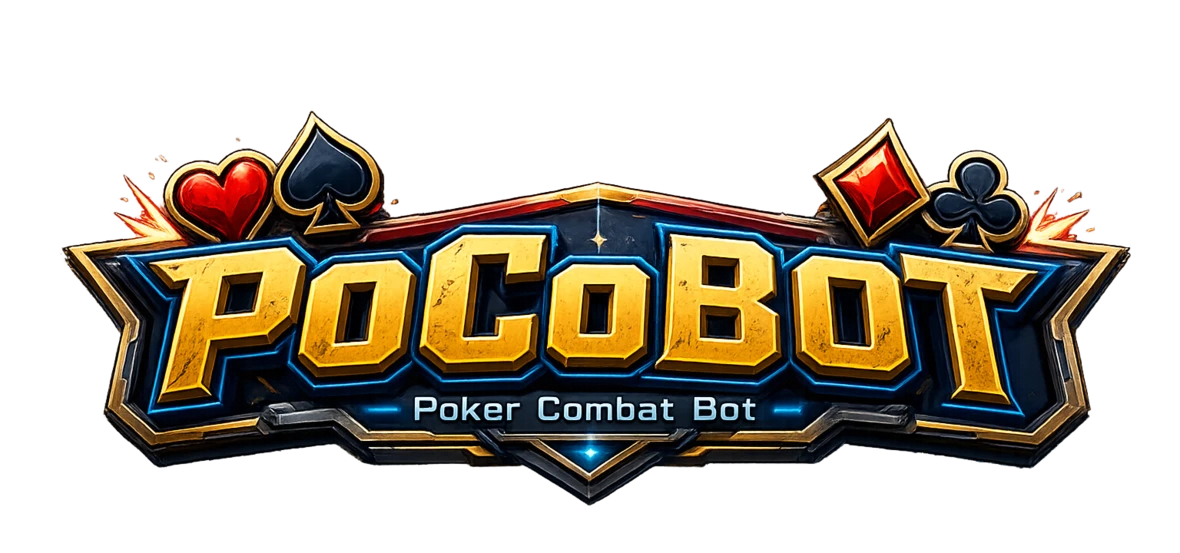
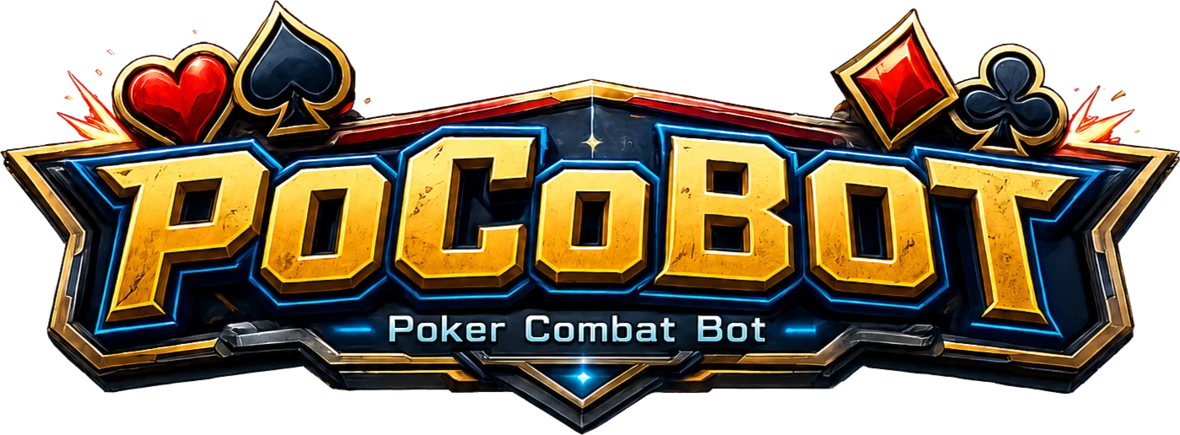
Publish clean PoCoBOT release 2026-05-28 19:35

diff --git a/poker_combat_bot_ONLINE.html b/poker_combat_bot_ONLINE.html
@@ -19359,7 +19359,6 @@ body.mobile-sprite-hud-active .desktop-hud-transition{
 }
 .brand-title-image-desktop{
   display:block !important;
-  mix-blend-mode:screen;
 }
 .brand-title-image-mobile{
   display:none !important;

diff --git a/CLEAN_RELEASE.md b/CLEAN_RELEASE.md
@@ -7,5 +7,5 @@ This directory is generated from the working PoCoBOT folder.
 - Use `npm run clean:push` from the working folder to commit and push this clean tree to GitHub.
 
 Generated file count: 595
-Generated payload size: 623.4 MB
+Generated payload size: 623.3 MB
 
